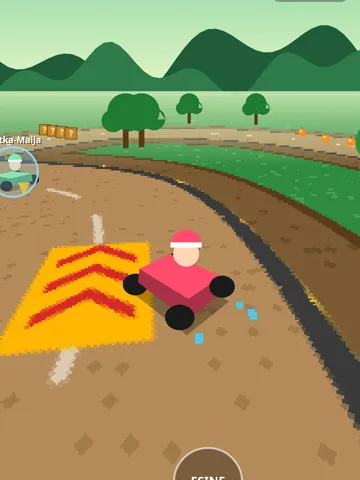
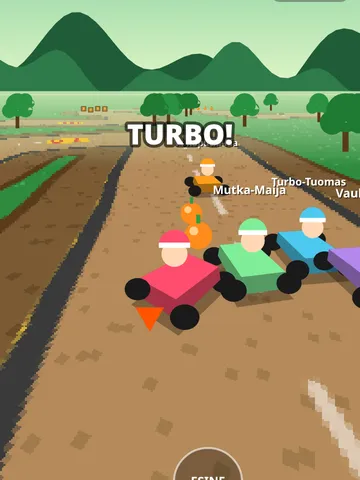
Kaahari: tell the yellow driver from the player, retake the shelf picture (#89)

diff --git a/games/kaahari/v1/index.html b/games/kaahari/v1/index.html
@@ -58,7 +58,7 @@ let bests = load('ennatykset', {}), trackNo = load('rata', 0);
 if (!(trackNo >= 0 && trackNo < 3)) trackNo = 0;
 
 const FOES = ['Kaasu-Kalle', 'Rengas-Riikka', 'Turbo-Tuomas', 'Mutka-Maija', 'Vauhti-Ville', 'Pakoputki-Pia', 'Ratti-Rasmus', 'Kurvi-Kerttu'];
-const COLORS = ['#ff4d6d', '#4cc9f0', '#80ed99', '#b388eb', '#ff9f1c', '#f15bb5'];
+const COLORS = ['#ff4d6d', '#4cc9f0', '#80ed99', '#b388eb', '#ff9f1c', '#ffe066'];
 const LAPS = 3, KARTS = 6;
 
 // ---------- The tracks ----------
